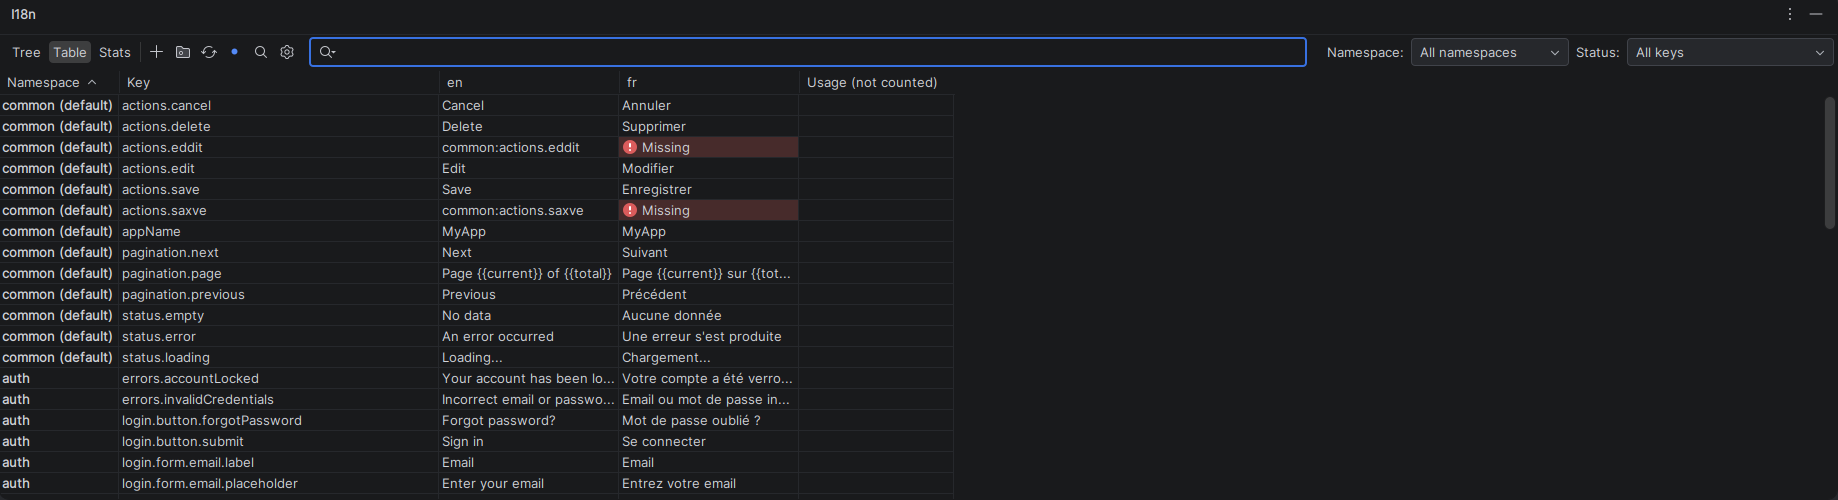
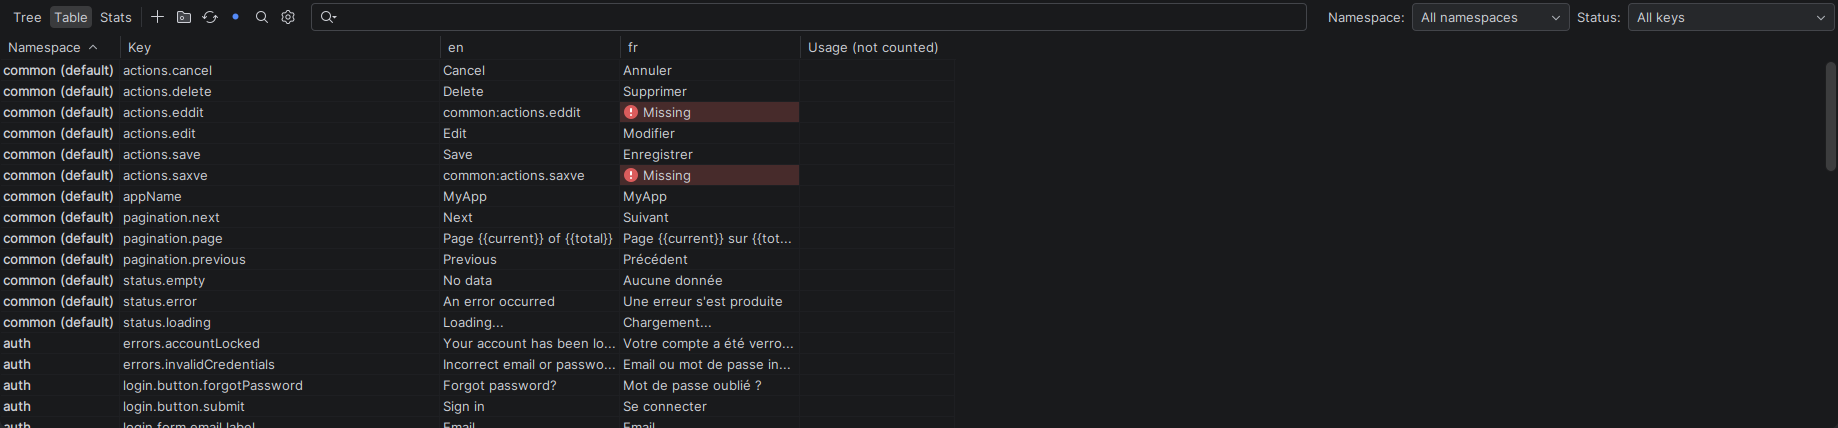
test(ui): regenerate the README table screenshot with IDE Starter + Driver
generateUiScreenshots / verifyUiScreenshots start WebStorm 2025.3.4 twice under Xvfb, capture the
i18n tool window panel by its Swing bounds and require pixel-identical output. The manual
UI screenshots workflow is kept disabled: the WebStorm license is personal.

diff --git a/src/uiTest/kotlin/com/ibrahimdans/i18n/plugin/ide/toolwindow/ToolWindowScreenshotTest.kt b/src/uiTest/kotlin/com/ibrahimdans/i18n/plugin/ide/toolwindow/ToolWindowScreenshotTest.kt
@@ -1,0 +1,189 @@
+package com.ibrahimdans.i18n.plugin.ide.toolwindow
+
+import com.intellij.driver.sdk.closeAllNotifications
+import com.intellij.driver.sdk.closeAndDisableAllBalloonNotifications
+import com.intellij.driver.sdk.openToolWindow
+import com.intellij.driver.sdk.ui.boundsOnScreen
+import com.intellij.driver.sdk.ui.components.UiComponent.Companion.waitFound
+import com.intellij.driver.sdk.ui.components.common.ideFrame
+import com.intellij.driver.sdk.waitFor
+import com.intellij.driver.sdk.waitForIndicators
+import com.intellij.ide.starter.driver.engine.runIdeWithDriver
+import com.intellij.ide.starter.ide.IdeProductProvider
+import com.intellij.ide.starter.models.TestCase
+import com.intellij.ide.starter.plugins.PluginConfigurator
+import com.intellij.ide.starter.project.LocalProjectInfo
+import com.intellij.ide.starter.runner.Starter
+import org.junit.jupiter.api.Assertions.assertEquals
+import org.junit.jupiter.api.Assertions.assertFalse
+import org.junit.jupiter.api.Assertions.assertTrue
+import org.junit.jupiter.api.Test
+import java.awt.GraphicsEnvironment
+import java.awt.Rectangle
+import java.awt.Robot
+import java.awt.image.BufferedImage
+import java.nio.file.Files
+import java.nio.file.Path
+import java.nio.file.StandardCopyOption.REPLACE_EXISTING
+import javax.imageio.ImageIO
+import kotlin.io.path.absolute
+import kotlin.io.path.exists
+import kotlin.time.Duration.Companion.minutes
+
+/**
+ * The first reproducible README capture. It intentionally captures only the plugin panel, whose
+ * bounds Driver reads from Swing, rather than using fixed screen coordinates or an external crop.
+ */
+class ToolWindowScreenshotTest {
+
+    @Test
+    fun tableScreenshotIsRepeatable() {
+        assertFalse(GraphicsEnvironment.isHeadless(), "UI screenshots require a display; use xvfb-run on Linux.")
+        outputDirectory.toFile().deleteRecursively()
+        Files.createDirectories(outputDirectory)
+
+        val first = captureTable("first")
+        val second = captureTable("second")
+        assertSamePixels(first, second, "Two fresh WebStorm sessions rendered different table screenshots")
+
+        when (mode) {
+            ScreenshotMode.RECORD -> Files.copy(first, baseline, REPLACE_EXISTING)
+            ScreenshotMode.VERIFY -> assertSamePixels(baseline, first, "The README screenshot is out of date")
+        }
+    }
+
+    private fun captureTable(runName: String): Path {
+        val project = copyReferenceProject(runName)
+        val destination = outputDirectory.resolve(runName).resolve(FILE_NAME)
+        val licenseKey = requireNotNull(System.getenv("LICENSE_KEY")?.takeIf(String::isNotBlank)) {
+            "LICENSE_KEY is required to run licensed WebStorm UI screenshots"
+        }
+
+        Starter.newContext(
+            "toolwindow-table-$runName",
+            TestCase(IdeProductProvider.WS, LocalProjectInfo(project)).withVersion(ideVersion)
+        ).apply {
+            applyVMOptionsPatch {
+                addSystemProperty("idea.trust.all.projects", "true")
+                addSystemProperty("ide.show.tips.on.startup.default.value", "false")
+                addSystemProperty("jb.consents.confirmation.enabled", "false")
+                addSystemProperty("jb.privacy.policy.text", "<!--999.999-->")
+                addSystemProperty("user.language", "en")
+                addSystemProperty("user.country", "US")
+                addSystemProperty("sun.java2d.uiScale", "1")
+            }
+            setLicense(licenseKey)
+            PluginConfigurator(this).installPluginFromPath(Path.of(System.getProperty("path.to.build.plugin")))
+        }.runIdeWithDriver().useDriverAndCloseIde {
+            waitForIndicators(5.minutes)
+            // Balloons open over the bottom-right corner, where the tool window is docked; the
+            // copied project has no node_modules, so "Install dependencies" is sure to show.
+            closeAndDisableAllBalloonNotifications()
+            ideFrame {
+                // Without a window manager under Xvfb the frame keeps its default size, which
+                // would make the panel width depend on the IDE build rather than on the test.
+                setBounds(FRAME_BOUNDS)
+                waitFor("the IDE frame to take its fixed bounds", 1.minutes) { boundsOnScreen == FRAME_BOUNDS }
+                // Through the project's ToolWindowManager: the ActivateI18nToolWindow action is
+                // disabled when Driver invokes it, its data context carries no project.
+                openToolWindow("I18n")
+                val toolWindow = x { byType(I18nToolWindowPanel::class.java) }.waitFound(1.minutes)
+                toolWindow.x { byVisibleText("Table") }.waitFound(1.minutes).click()
+                val table = toolWindow.x { byType("com.intellij.ui.table.JBTable") }.waitFound(1.minutes)
+                waitFor("the Table view to become visible", 1.minutes) { table.component.isShowing() }
+                table.waitOneText("actions.eddit", timeout = 1.minutes)
+                toolWindow.waitOneText("Usage (not counted)", timeout = 1.minutes)
+                // Some balloons ("Install dependencies") show up after indexing: close them again
+                // once the table is ready, right before the capture.
+                closeAllNotifications()
+                // The search field takes the focus when the view opens and its caret blinks, so two
+                // captures would differ by a cursor. The table has no caret.
+                table.setFocus()
+                waitFor("the table to own the focus", 1.minutes) { table.isFocusOwner() }
+                capture(toolWindow.boundsOnScreen, destination)
+            }
+        }
+
+        return destination
+    }
+
+    private fun copyReferenceProject(runName: String): Path {
+        val target = outputDirectory.resolve("projects").resolve(runName).absolute().normalize()
+        val root = outputDirectory.resolve("projects").absolute().normalize()
+        require(target.startsWith(root)) { "Refusing to replace a project outside the screenshot work directory" }
+        target.toFile().deleteRecursively()
+        Files.createDirectories(target)
+
+        for (entry in REFERENCE_PROJECT_ENTRIES) {
+            val source = projectSource.resolve(entry).toFile()
+            check(source.exists()) { "Reference project is missing $entry" }
+            check(source.copyRecursively(target.resolve(entry).toFile(), overwrite = true)) {
+                "Could not copy $entry into the screenshot project"
+            }
+        }
+        // The reference workspace contains tabs and machine-local history. Configuration is enough.
+        target.resolve(".idea/workspace.xml").toFile().delete()
+        // The copy sits inside this repository's build/ directory: its VCS mapping would point to a
+        // directory that is not a root and raise an "Invalid VCS root mapping" balloon.
+        target.resolve(".idea/vcs.xml").toFile().delete()
+        return target
+    }
+
+    private fun capture(bounds: Rectangle, destination: Path) {
+        assertTrue(bounds.width > 0 && bounds.height > 0, "The tool window panel has no visible bounds")
+        Files.createDirectories(destination.parent)
+        val robot = Robot()
+        // Driver's setFocus leaves the pointer over a table row: hover highlight and tooltip.
+        // Park it over the empty editor area, above the tool window.
+        robot.mouseMove(FRAME_BOUNDS.centerX.toInt(), FRAME_BOUNDS.y + bounds.y / 2)
+        robot.waitForIdle()
+        assertTrue(ImageIO.write(stableCapture(robot, bounds), "png", destination.toFile()))
+    }
+
+    /** Waits for the panel to stop changing (tooltip fading out, repaint after the pointer left). */
+    private fun stableCapture(robot: Robot, bounds: Rectangle): BufferedImage {
+        var previous = robot.createScreenCapture(bounds)
+        repeat(STABLE_CAPTURE_ATTEMPTS) {
+            robot.delay(STABLE_CAPTURE_INTERVAL_MS)
+            val current = robot.createScreenCapture(bounds)
+            if (samePixels(previous, current)) return current
+            previous = current
+        }
+        error("The tool window kept changing for ${STABLE_CAPTURE_ATTEMPTS * STABLE_CAPTURE_INTERVAL_MS} ms")
+    }
+
+    private fun samePixels(a: BufferedImage, b: BufferedImage): Boolean =
+        a.width == b.width && a.height == b.height &&
+            (0 until a.height).all { y -> (0 until a.width).all { x -> a.getRGB(x, y) == b.getRGB(x, y) } }
+
+    private fun assertSamePixels(expected: Path, actual: Path, message: String) {
+        check(expected.exists()) { "Missing screenshot: $expected" }
+        check(actual.exists()) { "Missing screenshot: $actual" }
+        val expectedImage = ImageIO.read(expected.toFile())
+        val actualImage = ImageIO.read(actual.toFile())
+        assertEquals(expectedImage.width, actualImage.width, "$message: different widths")
+        assertEquals(expectedImage.height, actualImage.height, "$message: different heights")
+
+        for (y in 0 until expectedImage.height) {
+            for (x in 0 until expectedImage.width) {
+                assertEquals(expectedImage.getRGB(x, y), actualImage.getRGB(x, y), "$message at ($x, $y)")
+            }
+        }
+    }
+
+    private enum class ScreenshotMode { RECORD, VERIFY }
+
+    private companion object {
+        const val FILE_NAME = "toolwindow-table.png"
+        // The whole 1920x1440 Xvfb screen the recipe starts.
+        val FRAME_BOUNDS = Rectangle(0, 0, 1920, 1440)
+        const val STABLE_CAPTURE_ATTEMPTS = 20
+        const val STABLE_CAPTURE_INTERVAL_MS = 500
+        val ideVersion: String = System.getProperty("i18n.ui.screenshots.ideVersion")
+        val mode: ScreenshotMode = ScreenshotMode.valueOf(System.getProperty("i18n.ui.screenshots.mode").uppercase())
+        val baseline: Path = Path.of(System.getProperty("i18n.ui.screenshots.baseline"))
+        val outputDirectory: Path = Path.of(System.getProperty("i18n.ui.screenshots.output"))
+        val projectSource: Path = Path.of(System.getProperty("i18n.ui.screenshots.projectSource"))
+        val REFERENCE_PROJECT_ENTRIES = listOf(".idea", "package.json", "public", "src")
+    }
+}

diff --git a/docs/SCREENSHOTS_CHECKLIST.md b/docs/SCREENSHOTS_CHECKLIST.md
@@ -2,15 +2,21 @@
 
 ## Setup
 
-1. Lancer `./gradlew runWebStorm` (propriété `webStormPath` requise) : le sandbox `runIde` d'IntelliJ IDEA Ultimate
-   démarre sans licence et ne charge pas le support JavaScript
-2. Ouvrir `examples/react-multi-namespace/` — c'est le projet de référence : cinq namespaces
+1. Prototype automatisé : `generateUiScreenshots` et `verifyUiScreenshots` démarrent WebStorm 2025.3.4 avec
+   Starter + Driver, dans deux sessions fraîches. Sous Linux, lancer la tâche via
+   `xvfb-run -a --server-args="-screen 0 1920x1440x24"`; `LICENSE_KEY` doit déjà contenir l'encodage Base64
+   de la clé offline WebStorm attendue par Starter. La tâche fixe l'anglais et l'échelle UI à 100 % ; la génération
+   ne remplace `toolwindow-table.png` qu'après deux images identiques au pixel près.
+2. Le prototype ne couvre pour l'instant que `toolwindow-table.png`. Les autres captures gardent la recette
+   manuelle ci-dessous, avec `runWebStorm` (propriété `webStormPath` requise) : le sandbox `runIde` d'IntelliJ IDEA
+   Ultimate démarre sans licence et ne charge pas le support JavaScript.
+3. Ouvrir `examples/react-multi-namespace/` — c'est le projet de référence : cinq namespaces
    (`auth`, `common`, `dashboard`, `deposit-box`, `navigation`), deux locales (`en`, `fr`),
    des clés manquantes et vides prêtes à l'emploi
-3. Thème sombre par défaut de l'IDE, fenêtre d'outil ancrée en bas, largeur ≥ 1400 px
-4. Outil recommandé : [ScreenToGif](https://www.screentogif.com/) ou la capture système ;
+4. Thème sombre par défaut de l'IDE, fenêtre d'outil ancrée en bas, largeur ≥ 1400 px
+5. Outil recommandé : [ScreenToGif](https://www.screentogif.com/) ou la capture système ;
    PNG, sans mise à l'échelle, rognée à la zone utile
-5. Sous Xvfb, sans gestionnaire de fenêtres : `WAYLAND_DISPLAY` bidon et `XDG_SESSION_TYPE=x11` pour que l'IDE
+6. Sous Xvfb, sans gestionnaire de fenêtres : `WAYLAND_DISPLAY` bidon et `XDG_SESSION_TYPE=x11` pour que l'IDE
    s'ouvre sur l'écran virtuel, écran de 1920×1440 pour que la page de réglages tienne de *Namespaces* à *Checks*.
    Ne jamais capturer un chemin absolu local (panneau *Resolution* des modules) ni la modale de licence
 

diff --git a/CONTRIBUTING.md b/CONTRIBUTING.md
@@ -37,6 +37,39 @@ start one, run the plugin in a locally installed WebStorm instead:
 To try your build in your own IDE: `./gradlew buildPlugin`, then
 *Settings › Plugins › ⚙ › Install Plugin from Disk* with the ZIP from `build/distributions/`.
 
+## UI screenshots
+
+The first automated README capture is `docs/img/toolwindow-table.png`. It uses JetBrains Starter +
+Driver to start a clean, licensed **WebStorm 2025.3.4**, opens a disposable copy of
+`examples/react-multi-namespace/`, then captures the exact Swing bounds of the i18n tool window.
+It is intentionally outside `check`: a cold IDE download and start take several minutes.
+
+Set `LICENSE_KEY` to the Base64-encoded contents of a WebStorm key file, as required by Starter's
+`setLicense`. An activated WebStorm already has one in `~/.config/JetBrains/WebStorm<version>/webstorm.key`.
+Then run under Xvfb; the fake `WAYLAND_DISPLAY` keeps the IDE off your desktop session:
+
+```bash
+export LICENSE_KEY="$(base64 -w0 ~/.config/JetBrains/WebStorm2026.2/webstorm.key)"
+export WAYLAND_DISPLAY=bogus XDG_SESSION_TYPE=x11
+
+xvfb-run -a --server-args="-screen 0 1920x1440x24" \
+  ./gradlew generateUiScreenshots --no-daemon
+
+xvfb-run -a --server-args="-screen 0 1920x1440x24" \
+  ./gradlew verifyUiScreenshots --no-daemon
+```
+
+`generateUiScreenshots` takes the same capture in two fresh IDE sessions, requires pixel-identical
+output, and only then replaces `docs/img/toolwindow-table.png`. Review that image diff before
+committing it. `verifyUiScreenshots` repeats the two-run check and compares the result with the
+committed PNG. Both write their disposable projects and candidates below `build/ui-screenshots/`.
+
+The manual **UI screenshots** workflow is disabled for now (`if: false`): it would need the license
+as the repository secret `JETBRAINS_LICENSE_KEY`, and a personal license must not go there. Never
+put license material in a Gradle property, checked-in file, or workflow input.
+The former `runWebStorm` + xdotool process remains the fallback for captures that have not yet
+joined this suite.
+
 ## Run tests
 
 ```bash
